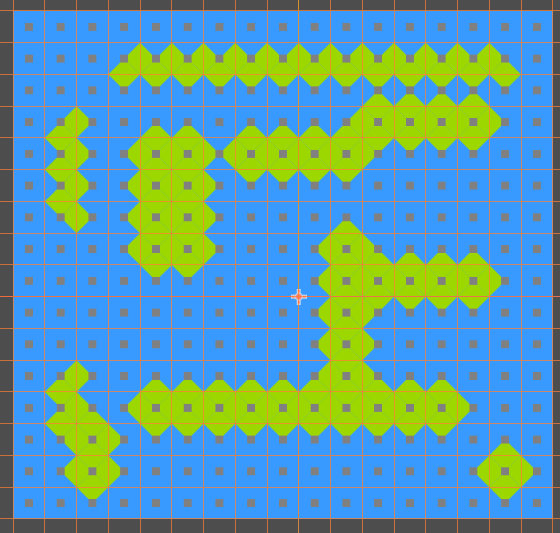
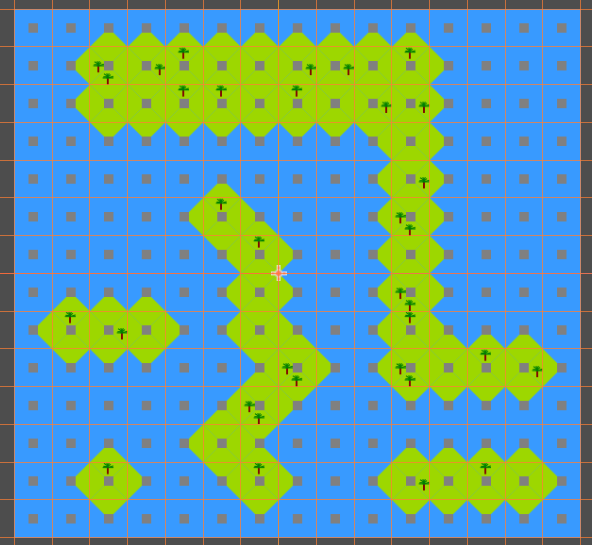
Update wang tiles post

diff --git a/blog/2023-09-19-wang-tiles/index.md b/blog/2023-09-19-wang-tiles/index.md
@@ -5,7 +5,7 @@ tags: [wang, tiles, godot]
 
 # Wang Tiles
 
-Wang tiles foi proposto pelo matemático Hao Wang em 1961.  
+(Wang tiles foi proposto pelo matemático Hao Wang em 1961)  
 
 Assuma que teremos um conjunto de tiles onde cada lado está pintado de apenas uma cor. Por exemplo:  
 
@@ -23,16 +23,19 @@ Por simplicidade mudaremos para duas cores apenas.
 
 :::
 
-Vamos reutilizar os mesmos tiles quantas vezes quisermos para botar eles lado a lado e formar um plano, porém com as cores laterais do tiles sempre casando. Por exemplo:  
+A ideia é reutilizar os mesmos tiles quantas vezes quisermos para botar eles lado a lado e formar um plano, porém com as cores laterais do tiles sempre casando. No exemplo seguinte temos 5 tiles e 2 exemplos de planos formados por eles:  
 
 ![Exemplo utilizando 5 tiles diferentes para criar 2 combinações de plano](./tiles_match.svg)  
 
-Tiles **não** podem se sobrepor.  
-Tiles **não** podem ser rotacionados ou refletidos (por enquanto).  
+Importante notar que:
+- Tiles **não** podem se sobrepor.  
+- Tiles **não** podem ser rotacionados ou refletidos.  
+
+Pois não é possível saber se seriam tiles válidos sem conhecer a imagem utilizada neles.  
 
 ## Automation
 
-Embora reutilização de tiles para gerar diversos planos/áreas/mapas não seja especial, Wang tiles adiciona a lógica de relacionar os tiles entre si.  
+Embora reutilização de tiles para gerar diversos planos/mapas não seja especial, Wang tiles adiciona a lógica de relacionar os tiles entre si. Isto nos permite verificar se um tile é válido numa determinada posição.  
 
 Por exemplo, possuindo 2 cores e 4 lados, podemos formar 16 (2<sup>4</sup>) tiles diferentes:  
 
@@ -44,21 +47,29 @@ Adicionamos um quadrado cinza no centro de cada tile.
 
 :::
 
-Podemos inserir em ferramentas como [Godot](https://godotengine.org/) que permitem definir relações entre os tiles e com isto construir diversos mapas em segundos:  
+Botamos estes tiles na game engine [Godot](https://godotengine.org/) e nela definimos a relação entre os tiles.  
 
-![Exemplo 1 de plano criado utilizando os tiles](./plane00.png)  
+Ao começar a pintar tiles dentro da game engine, podemos ver que ela consegue verificar qual tile é válido naquela posição ou se precisa alterar os vizinhos.  
 
-![Exemplo 2 de plano criado utilizando os tiles](./plane01.png)  
+<iframe width="560" height="315" src="https://www.youtube.com/embed/aWyol4H4Csc?si=JpoIgIEVf9v2dJ45" title="YouTube video player" frameborder="0" allow="accelerometer; autoplay; clipboard-write; encrypted-media; gyroscope; picture-in-picture; web-share" allowfullscreen></iframe>  
 
-Note que não há problema criar variações do mesmo tile. Por exemplo, adicionando tiles com árvores:  
+Em segundos conseguimos construir planos onde os tiles tem uma conexão entre si.  
+
+## Variations
+
+É importante notar que não há problema criar variações do mesmo tile. Por exemplo:  
 
 ![Mesmos 16 porém com a adição de 3 tiles com todos os lados verdes](./sides_with_trees.svg)  
 
-Quando a ferramenta for botar um tile com quatro lados verdes, ela poderá escolher entre 4 tiles diferentes:  
+No momento de preencher por um tile válido naquela posição, a ferramenta iria ter que escolher entre 4 tiles diferentes. Algumas ferramentas como Godot escolheram aleatoriamente:  
 
-![Exemplo 3 de plano criado utilizando os tiles, porém com árvores](./plane02.png)  
+Antes  
+![Exemplo de plano criado utilizando os 16 tiles](./plane00.png)  
 
-## Rotate & Reflect
+Depois  
+![Exemplo 3 de plano criado utilizando os tiles, porém com árvores](./plane01.png)  
+
+## Rotation & Reflection
 
 Na proposta de Wang não se pode rotacionar e refletir tiles pois não existe garantia que a imagem continuará fazendo sentido após rotacionada ou refletida.  
 
@@ -76,15 +87,11 @@ Alguns destes tiles são variações dos anteriores porém rotacionados ou refle
 
 ## Example
 
-Todos nossos tiles tem sido com cores, porém as cores apenas servem para representar a relação entre os tiles. Utilizando estes 6 tiles como base, podemos fazer um labirinto:  
-
-![Seis tiles que conseguem representar todas combinações se você rotacionar](./sides_minimalist.svg)  
-
-Basta imaginarmos o **azul como sendo arbustos** e o **verde como caminho de terra** para pessoas caminharem:  
+Todos nossos tiles tem sido com cores, porém as cores apenas servem para representar a relação entre os tiles. Criando apenas 6 tiles podemos fazer um labirinto:  
 
 ![Tiles do labirinto](./maze_tiles.svg)  
 
-Utilizando estes tiles com suas rotações/relexões, podemos facilmente criar um labirinto:  
+Utilizando estes tiles com suas rotações/relexões, podemos criar em segundos o nosso mapa:  
 
 ![Tiles do labirinto](./maze.png)  
 
